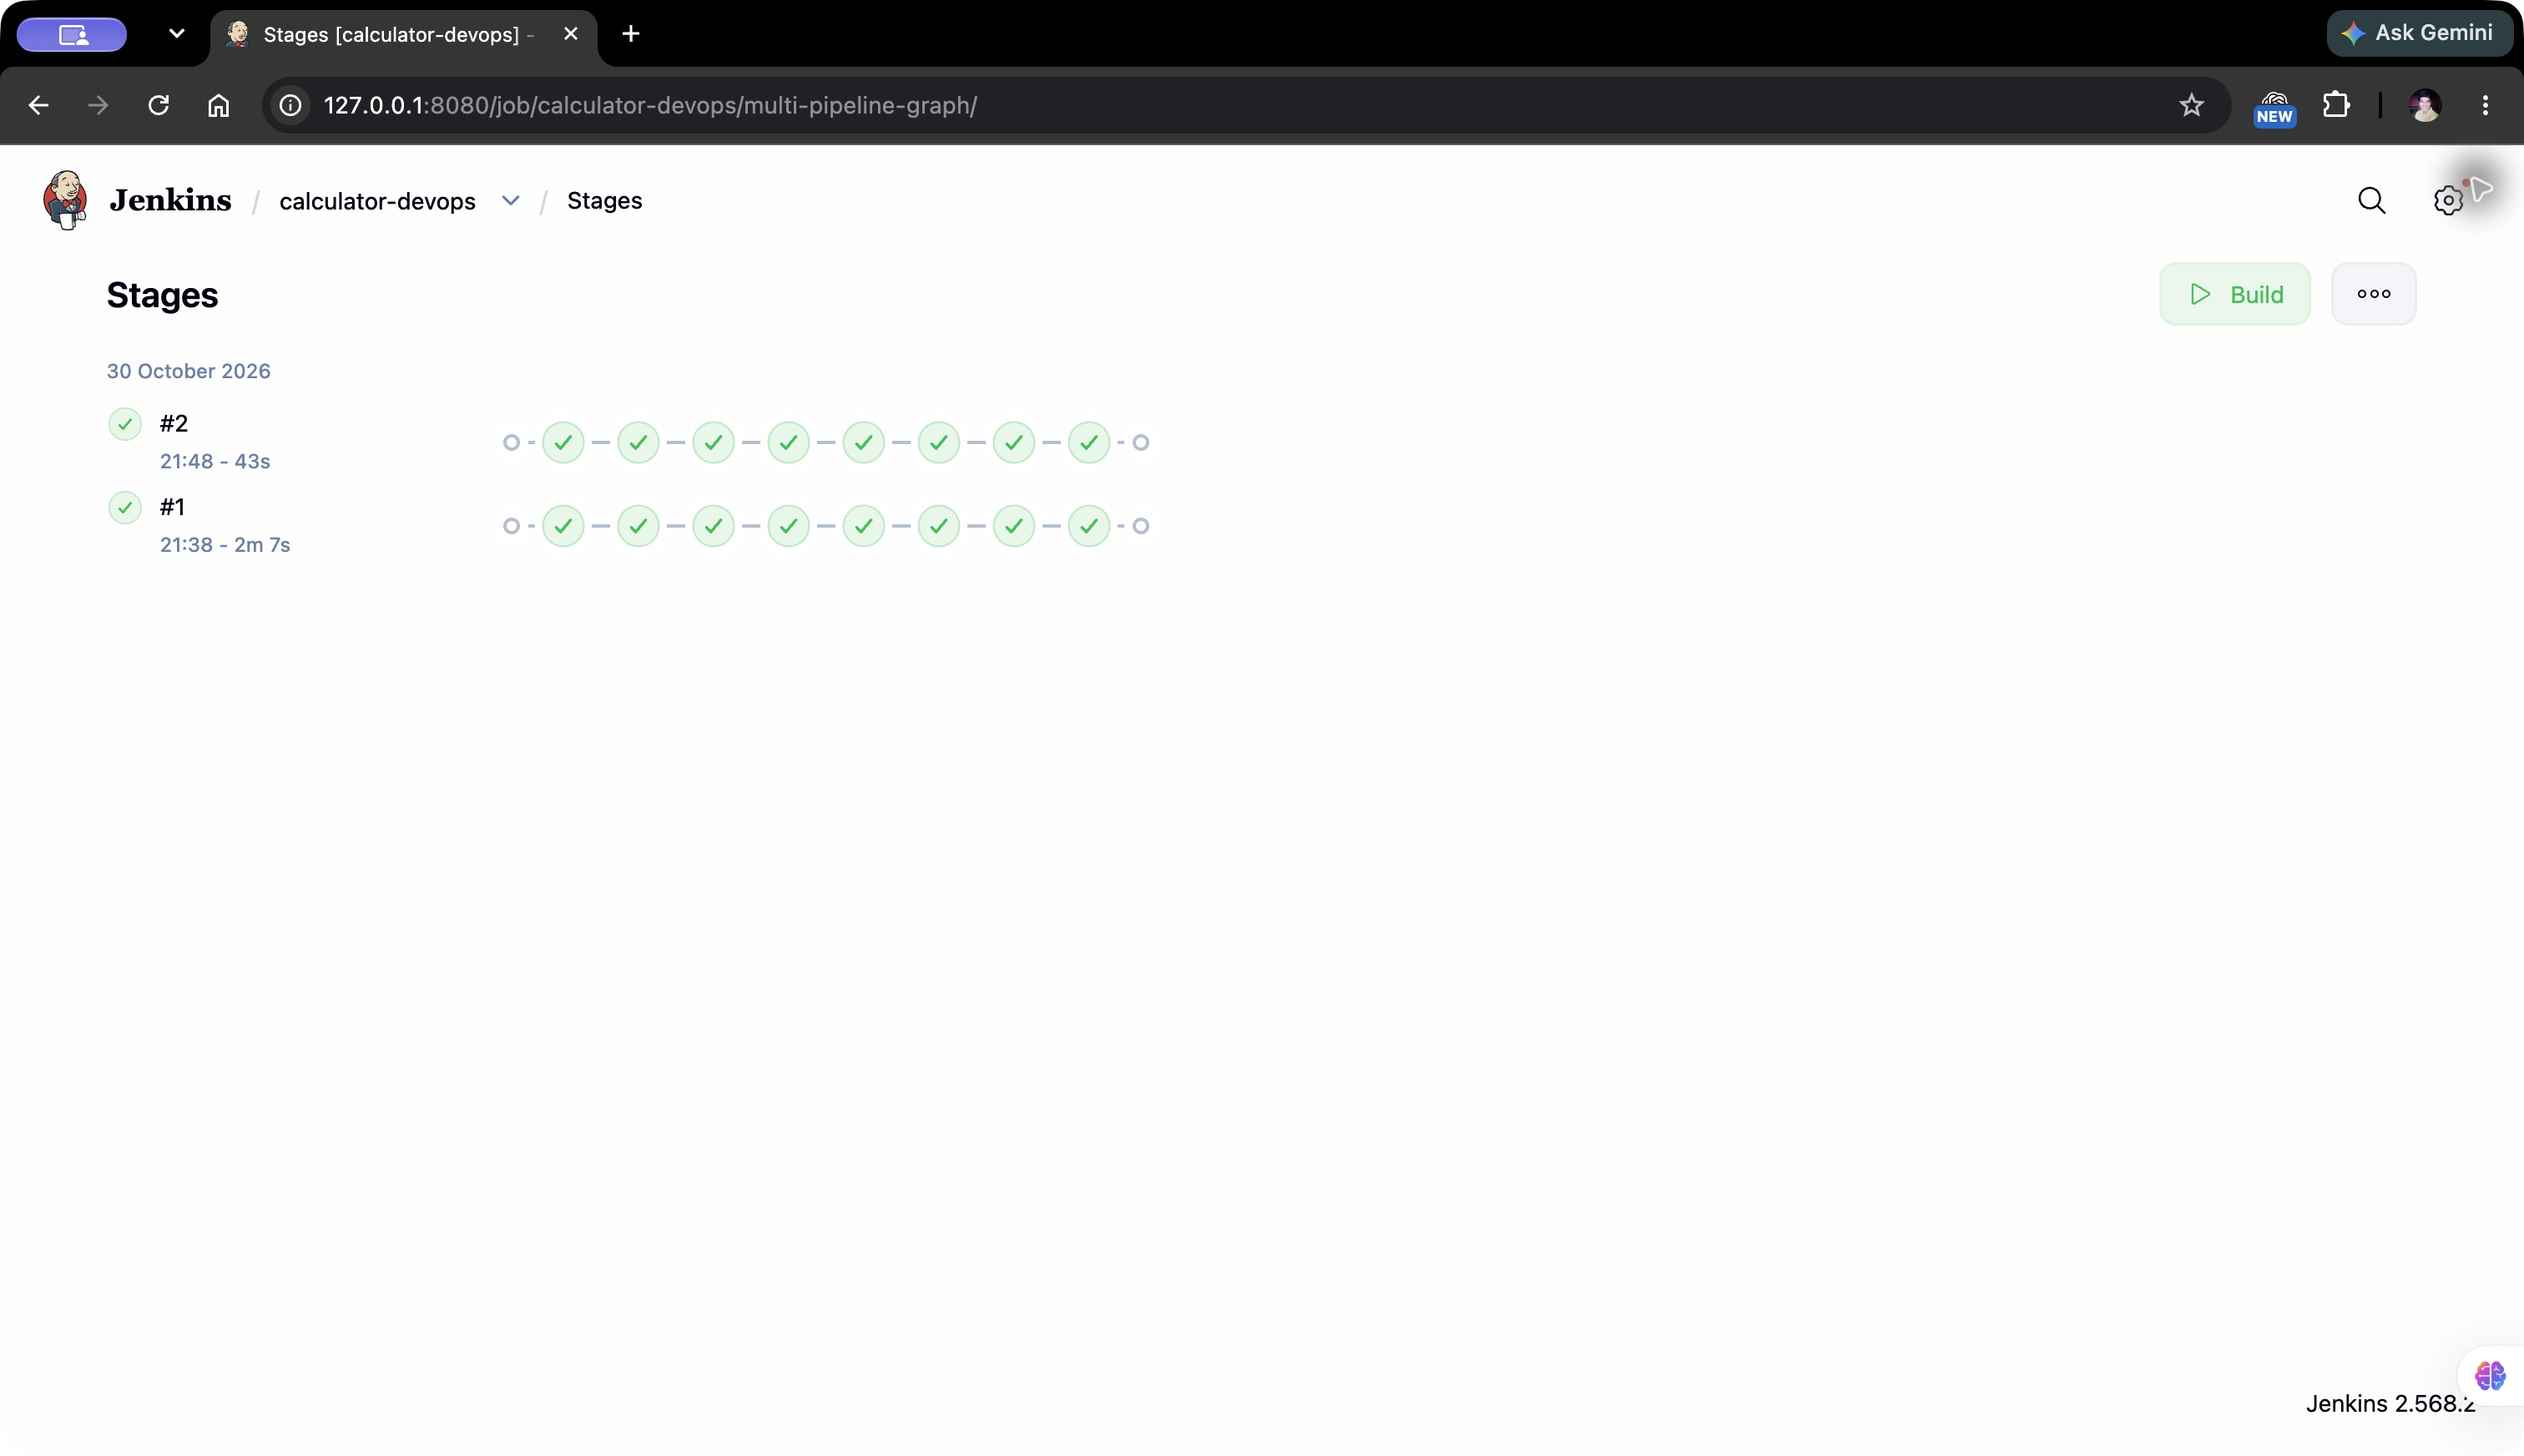
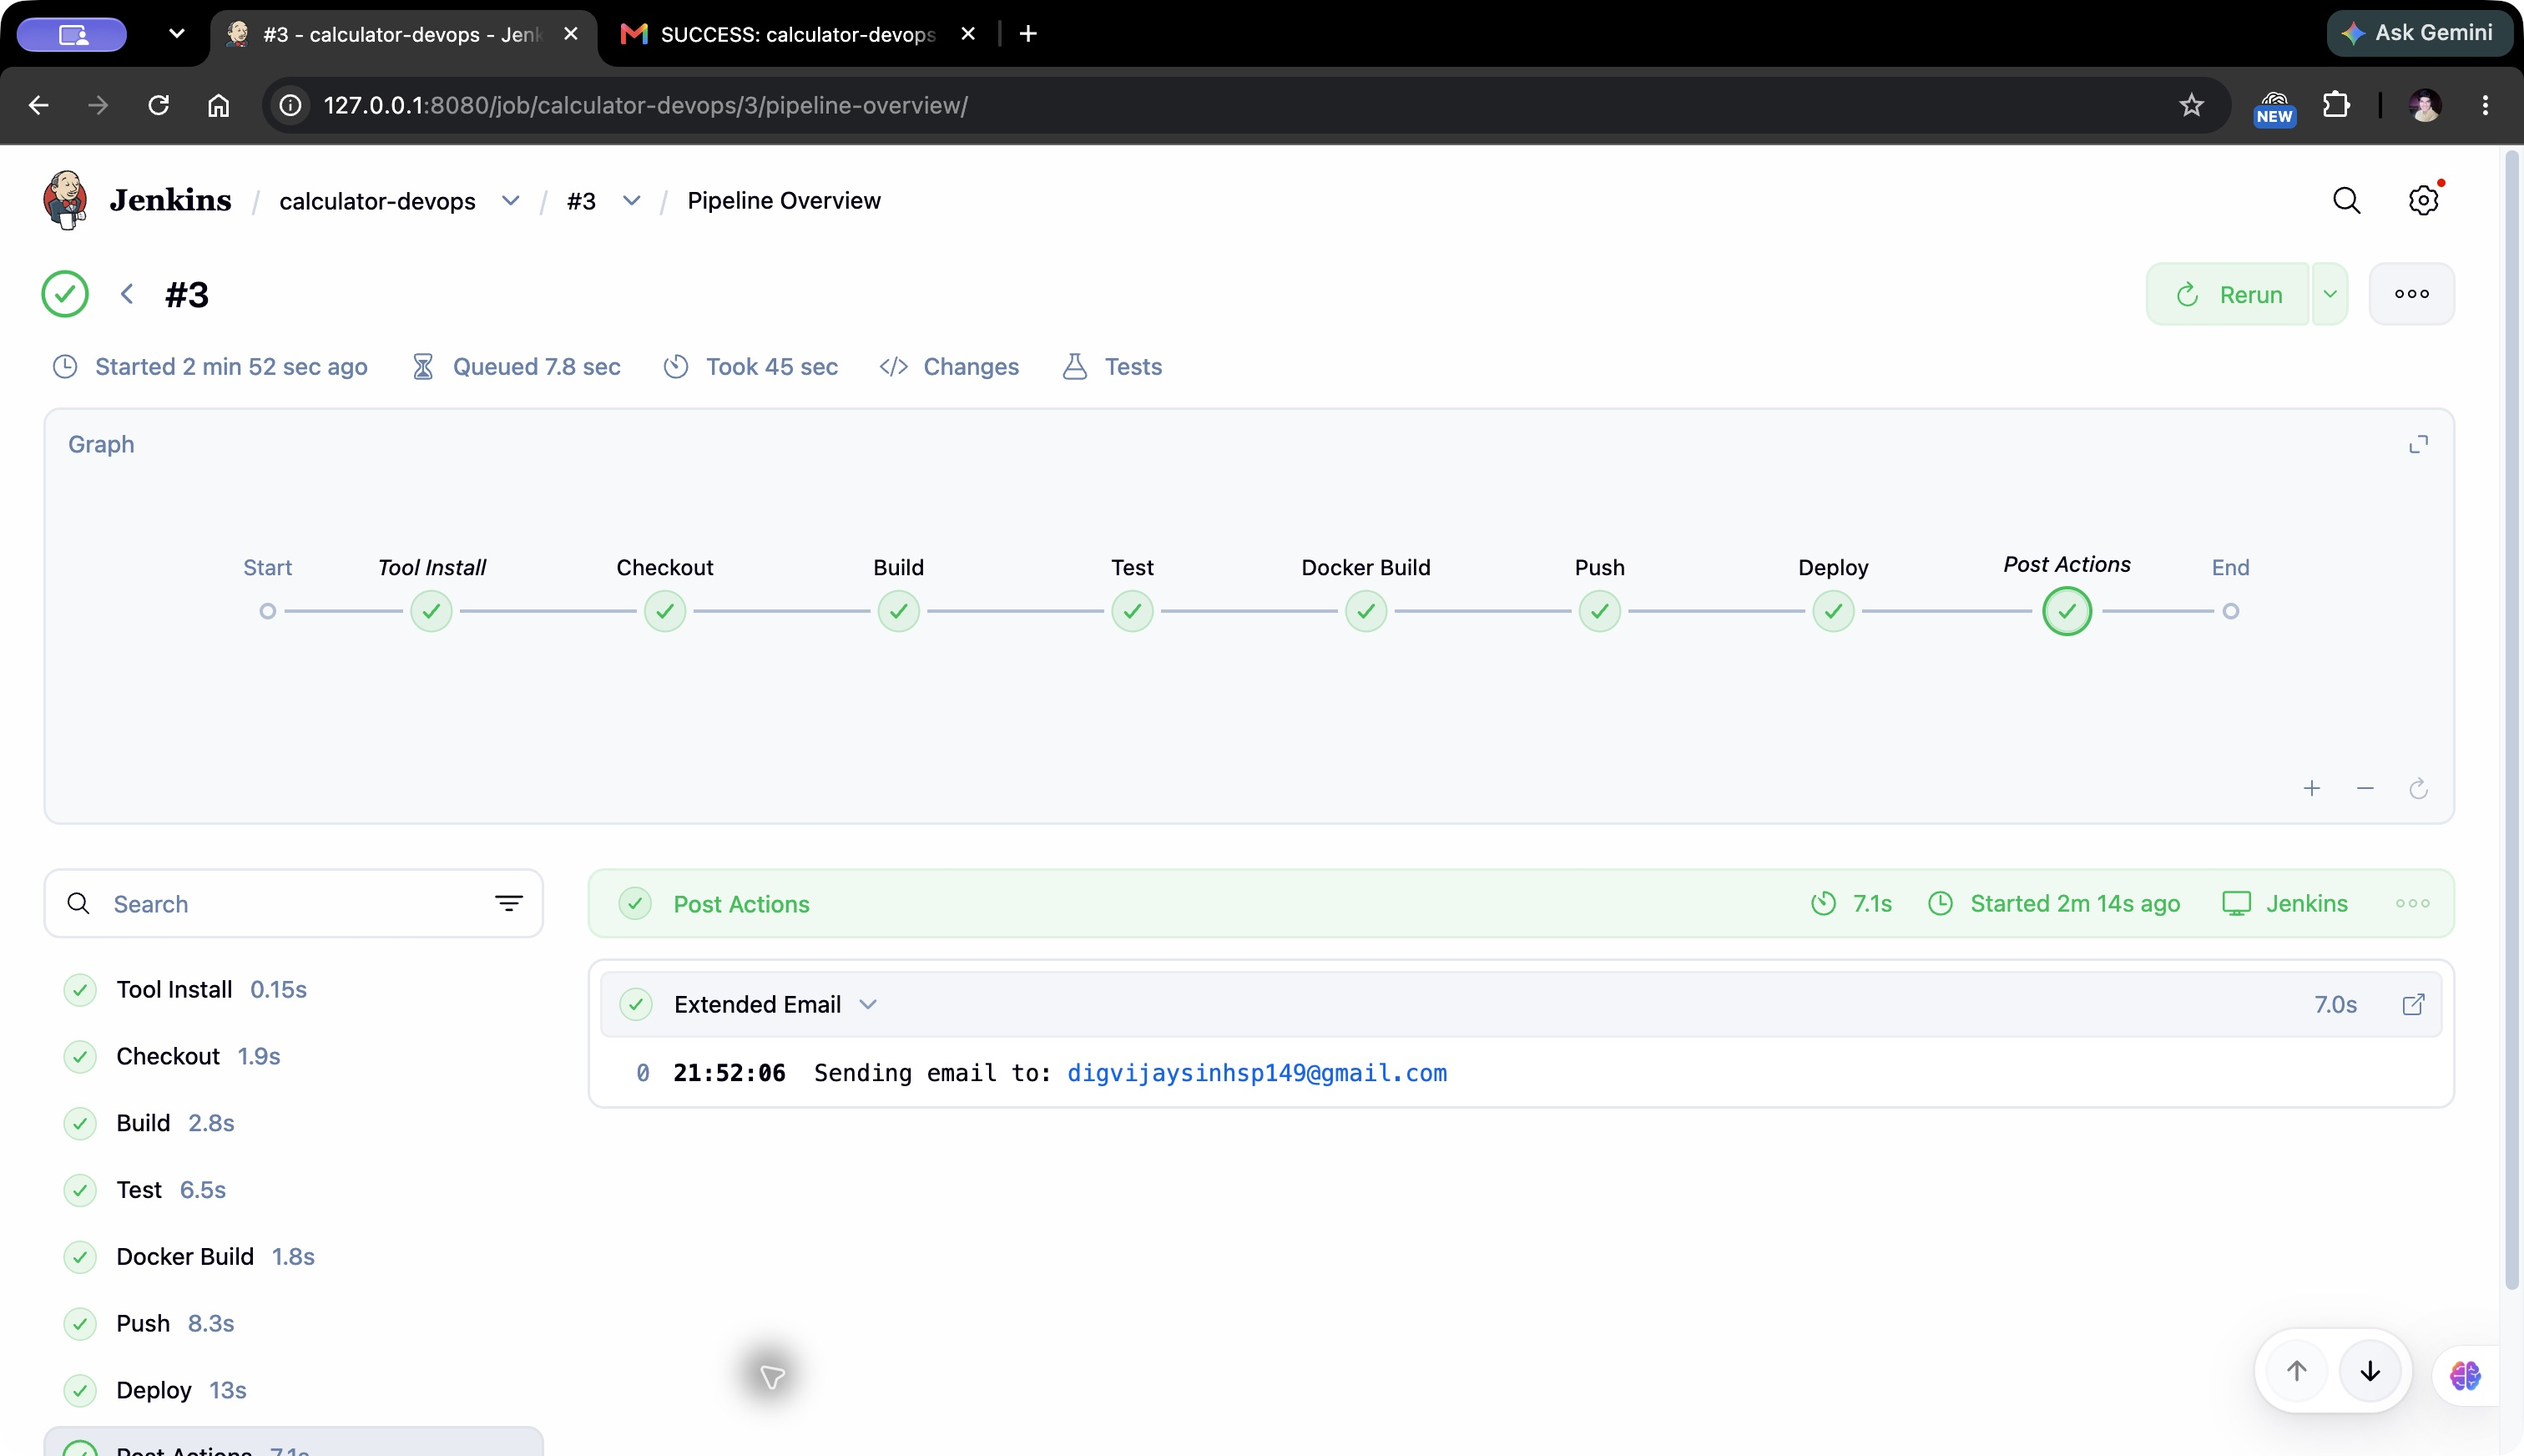
docs: record automatic deployment and delivered email evidence

diff --git a/README.md b/README.md
@@ -122,6 +122,7 @@ Credentials stay in Jenkins, outside the repository. Image push uses a temporary
 
 ## Submission material
 
+- Verification on 30 October 2026: Jenkins build #3 started automatically from an SCM change, passed all 31 tests, published image `:3`, deployed both healthy services, and delivered its success notification to Gmail.
 - [Project report](docs/project-report.pdf): architecture, pipeline stages, verification, and challenges.
 - [Screenshots](docs/screenshots/): captured project evidence.
 - [Docker Hub image](https://hub.docker.com/r/imnotfound/calculator-devops): public images tagged with the Jenkins build number.
